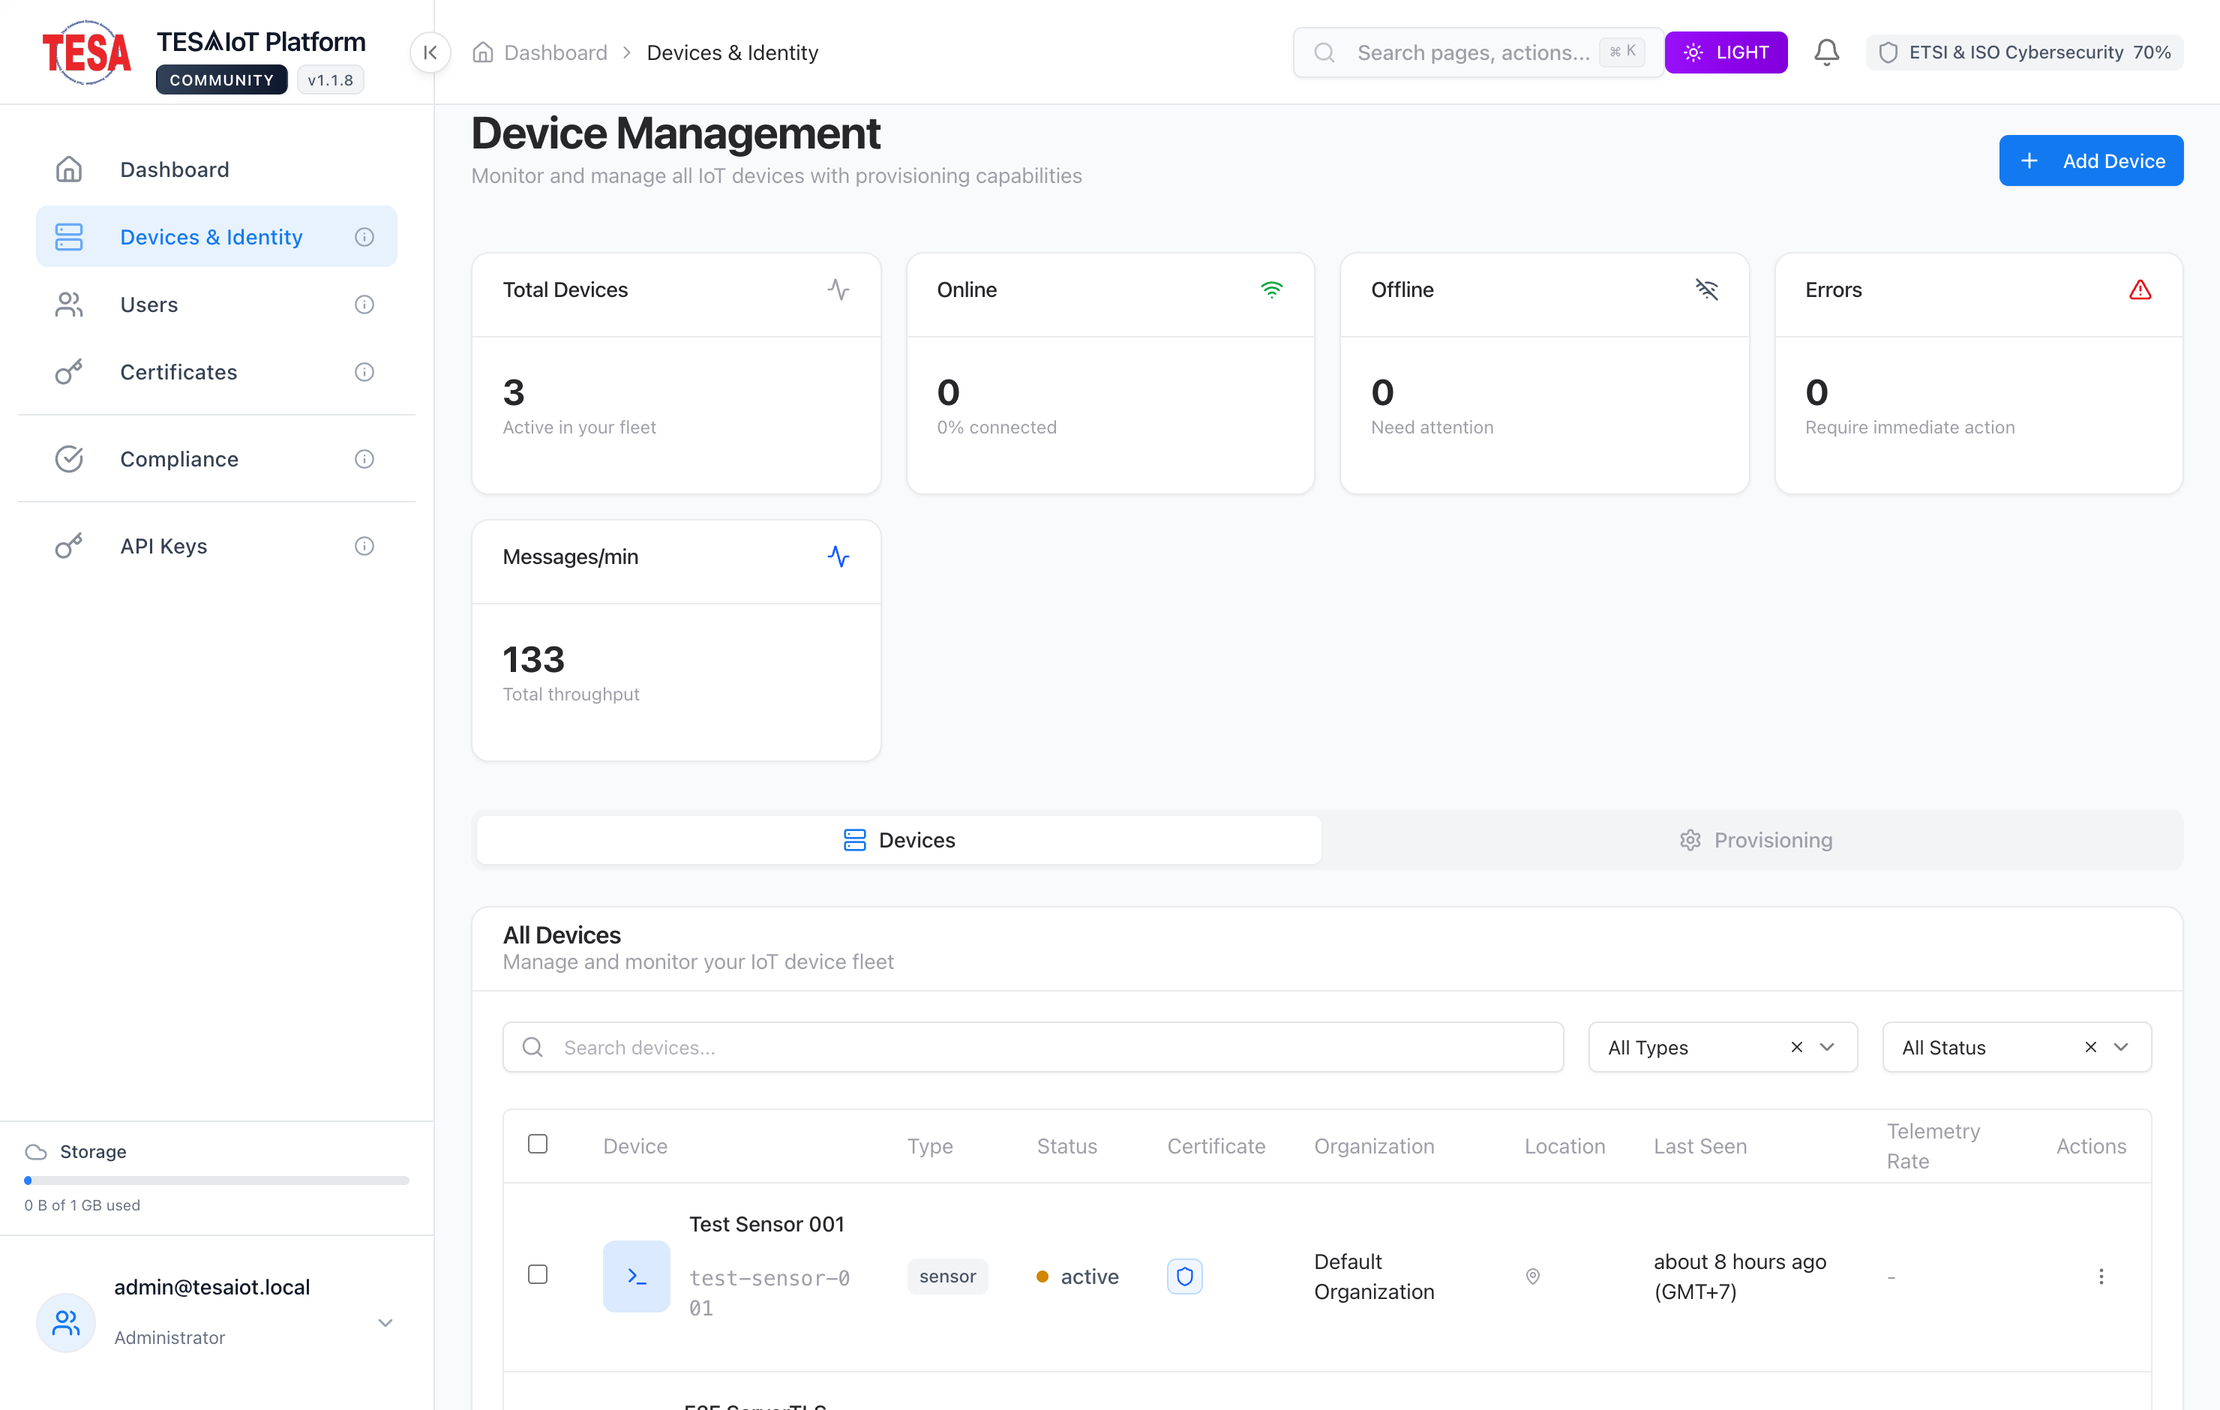
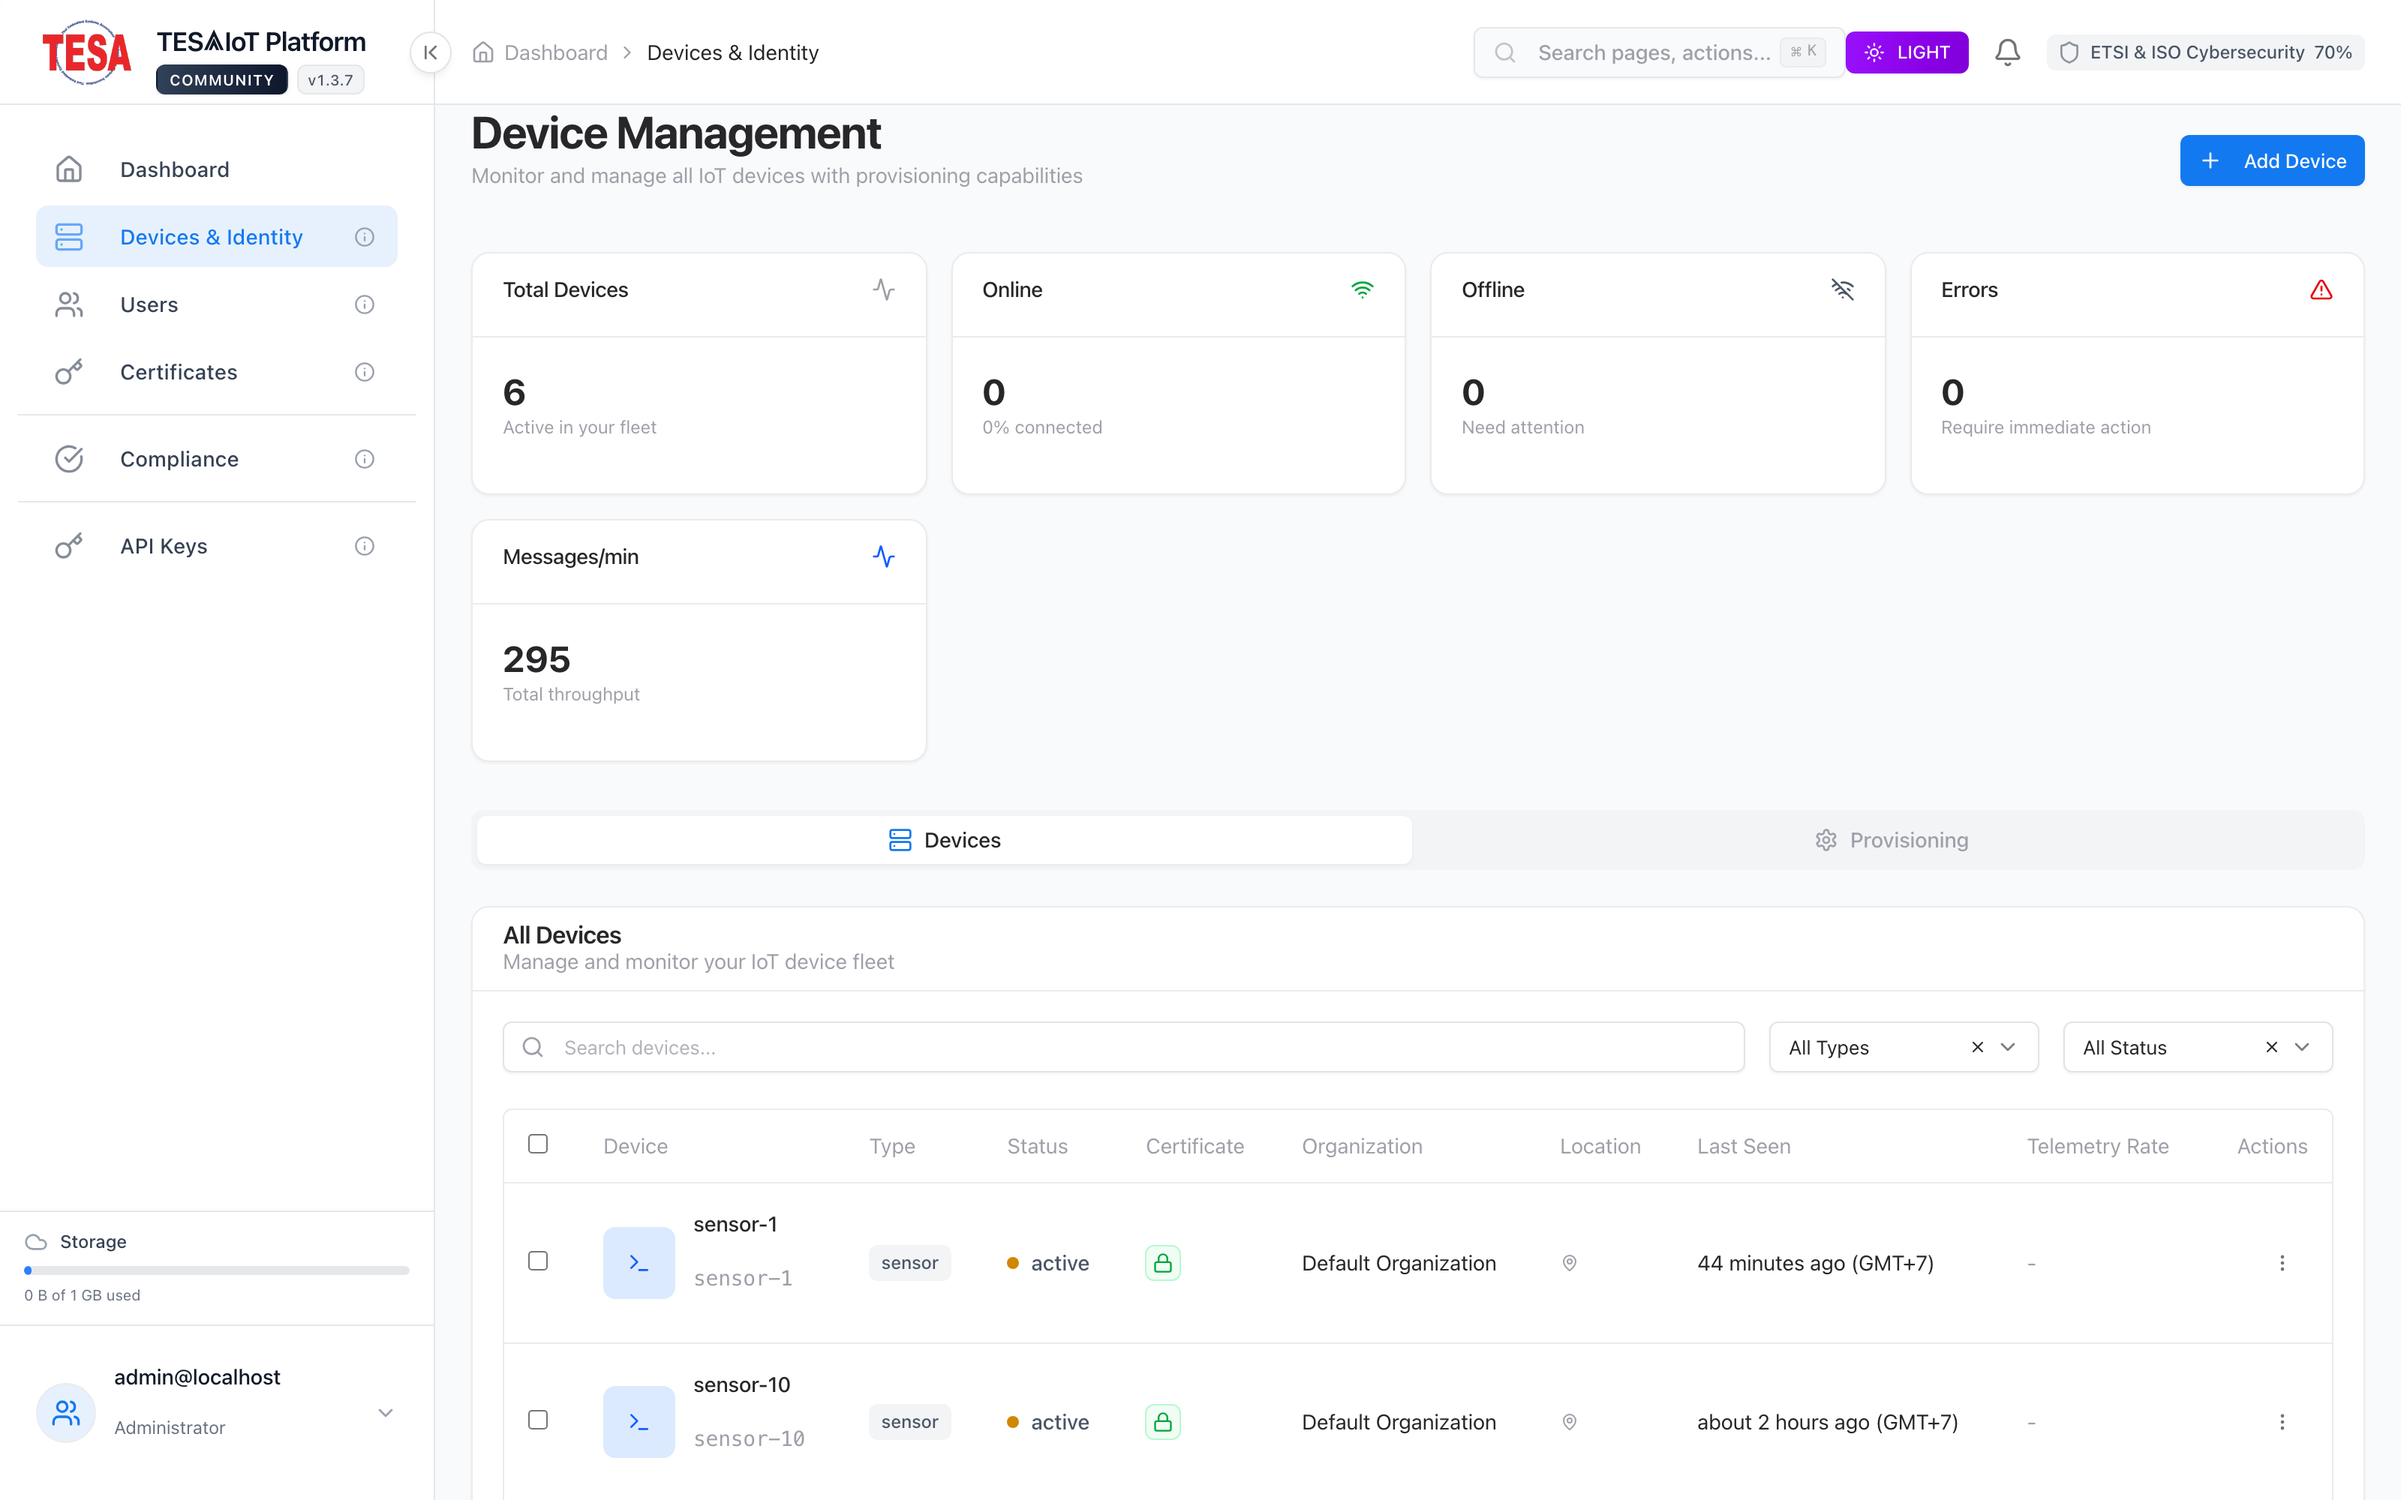
docs: refresh the README screenshots to v1.3.7 and show what the examples produce
The seven admin screenshots were captured for v1.1.6 to v1.2.0 — six releases
ago, on 21 June and 2 July — so the version badge in the sidebar, the navigation
and the dashboard layout in them no longer matched what a reader installs.
Recaptured against a running v1.3.7 install with real data: 3.0K messages
ingested today across six devices, certificates issued by the install's own Vault
PKI, and the sidebar badge reading v1.3.7 in every frame.

The sign-in shot needed cookies and localStorage cleared first — an earlier
attempt captured the dashboard, because the browser still held the session and
`/` redirects when you are already signed in. Two identical file sizes were what
gave that away.

Adds a "Built with it" section before Architecture, linking the three examples
that show the platform end to end and carrying the data they actually produced:
the React dashboard reading over REST with a JWT (614 points, six series), the
live-streaming dashboard plotting MQTT-over-WebSocket as it arrives, and the
secure element enrolling itself — on-chip key, CSR, Vault-signed certificate,
mutual-TLS publish.

The five setup-wizard screenshots are unchanged: capturing them needs an install
that has not completed first-run setup, which this one has.

diff --git a/README.md b/README.md
@@ -112,6 +112,36 @@ remaining operator/roadmap items published as openly as the strengths.
 
 ---
 
+### Built with it — the examples
+
+Everything in [`examples/`](examples/) is run against a live install before it is
+published here, and each ships the data it produced. Two that show the platform
+end to end:
+
+**A third-party app reading telemetry over the REST API.** JWT sign-in, then
+`/api/v1/telemetry/unified/{device}` charted with recharts — 614 points across six
+series from a device publishing over MQTT and HTTPS at once.
+[`examples/applications/react-telemetry-dashboard`](examples/applications/react-telemetry-dashboard)
+
+![React telemetry dashboard](examples/images/screenshots/react-telemetry-dashboard.png)
+
+**Live streaming over MQTT-over-WebSocket.** The browser subscribes to
+`device/+/telemetry` with a device credential and plots each message as it lands —
+no polling, no REST round trip.
+[`examples/applications/live-streaming-dashboard`](examples/applications/live-streaming-dashboard)
+
+![Live streaming dashboard](examples/images/screenshots/live-streaming-dashboard.png)
+
+And on the device side, a secure element enrolling itself: on-chip key, CSR,
+certificate signed by the install's own Vault PKI, then mutual-TLS publish —
+[`examples/security/secure-element-mtls`](examples/security/secure-element-mtls).
+
+![Secure element certificate](examples/images/screenshots/secure-element-mtls-certificate.png)
+
+[**All examples and how to run them →**](examples/README.md)
+
+---
+
 ## Architecture
 
 ```mermaid
